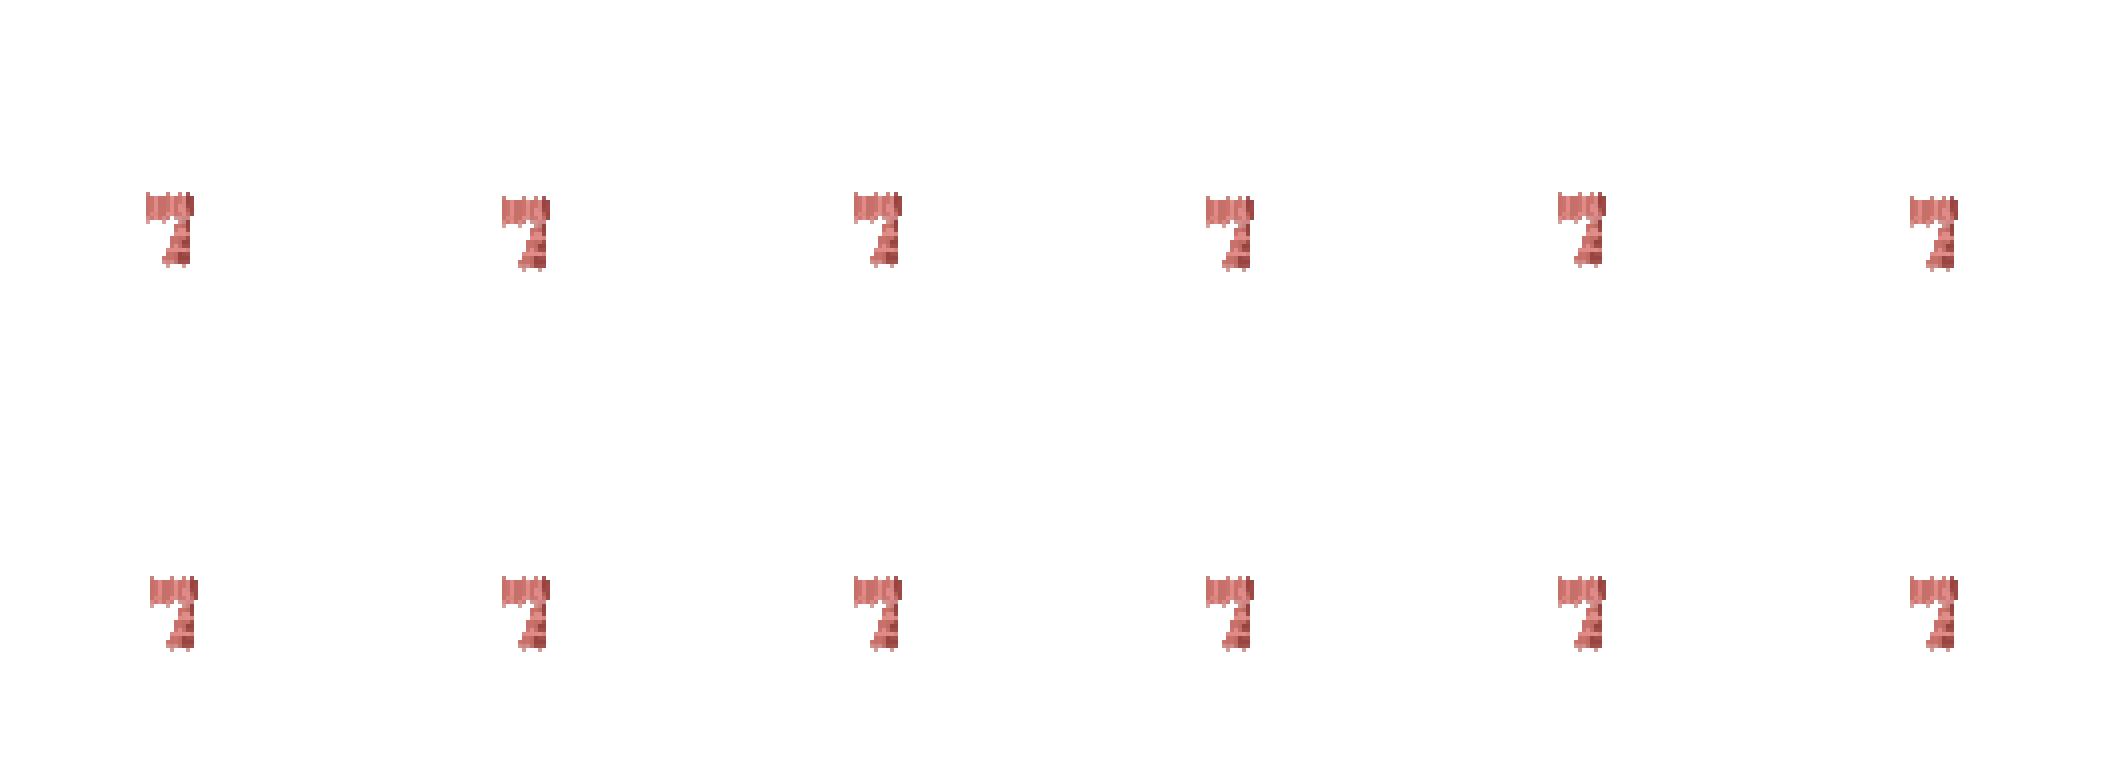
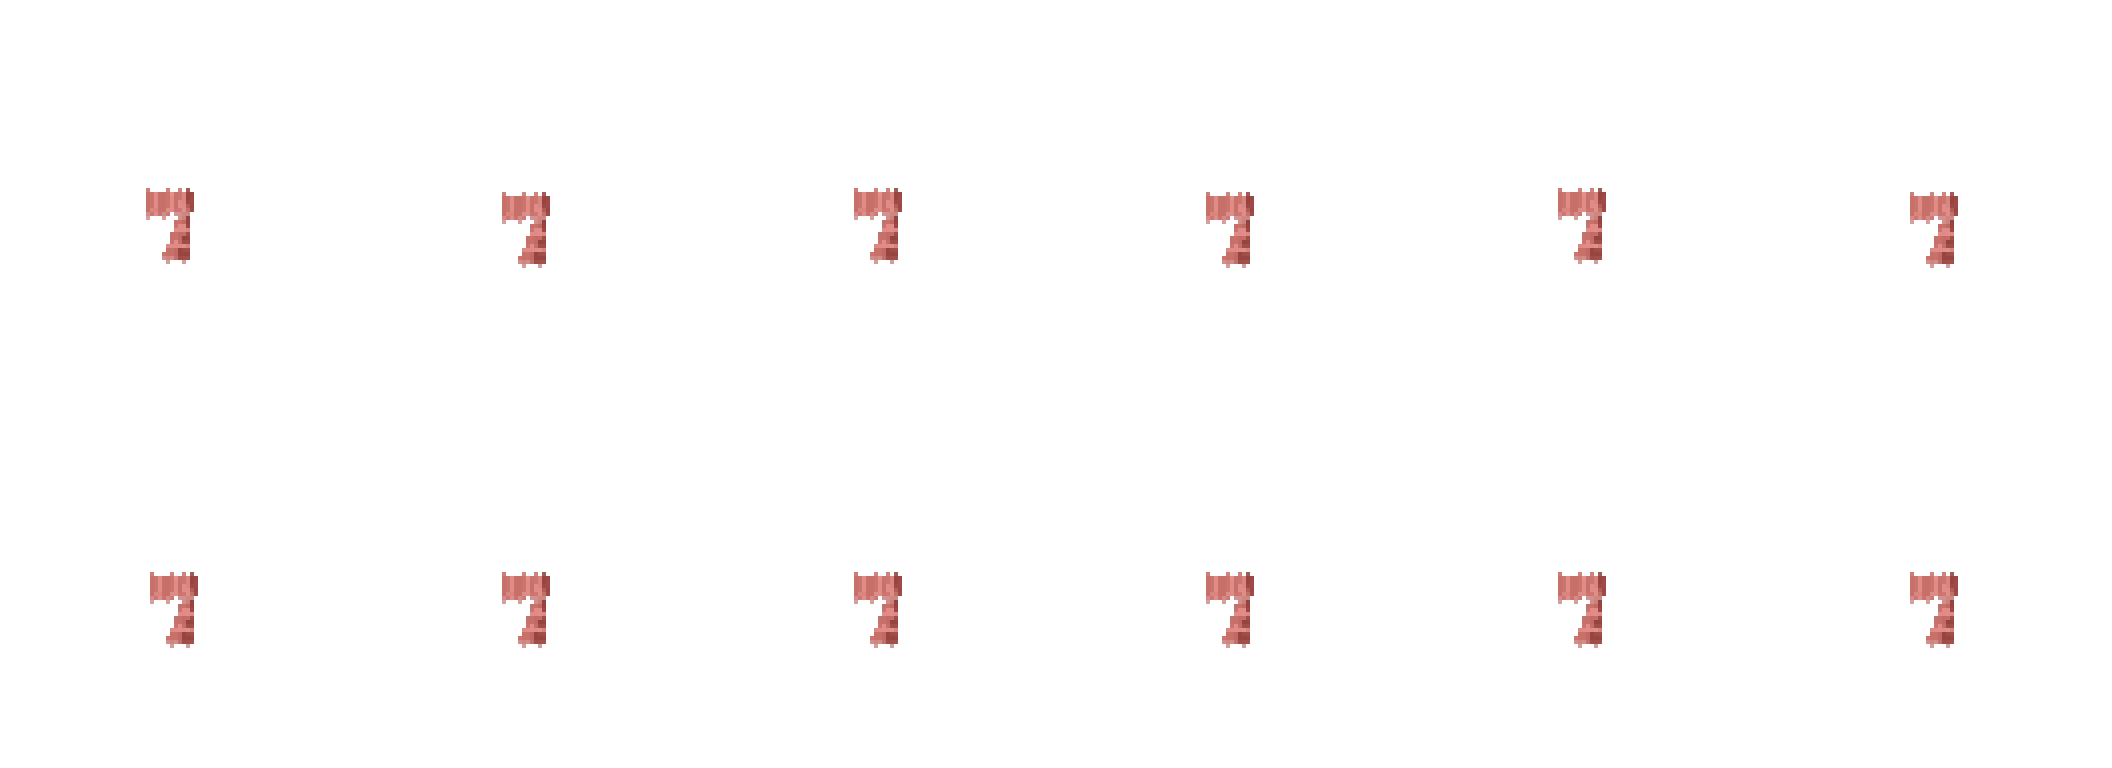
🧣 목도리를 한 도트 위로
턱 밑에 목이 한 도트 비어 보였다. 네 픽셀 올려 목에 붙였다
(y 192~267 → 188~263). 4의 배수라 도트 눈금은 그대로다.
✗ -8 이상은 턱을 먹는다.

Claude-Session: https://claude.ai/code/session_01756qBPpCuB22evHBmdXYTY

diff --git a/tools-acc-sharp.py b/tools-acc-sharp.py
@@ -24,6 +24,9 @@ FIX = {
     #     붙으니 긴 귀가 얼굴을 통째로 덮었다.
     #   ✗ (0, -16) 이상 — 귀뿌리가 귀를 지나 뺨을 가린다.
     'ac14': (0, -12),
+    # 🧣 목도리 — 턱 밑에 목이 한 도트 비어 보였다. 네 픽셀 올려 목에 붙인다.
+    #   ✗ -8 이상은 턱을 먹는다.
+    'ac18': (0,  -4),
     'ac25': (0, -16),   # 부채 — 손보다 아래에 매달려 있었다. 손에 쥐게 올린다
     'ac04': (0,  -8),   # 곰방대 — 턱 밑에 물려 있었다. 입술에 맞춘다
     'ac33': (0,  -8),   # 안대 — 눈을 반만 가렸다. 한 눈을 덮게 올린다
